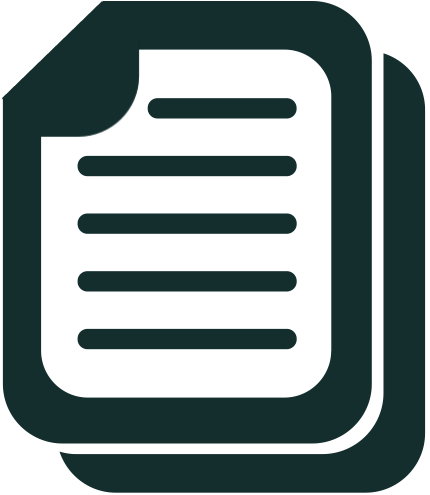
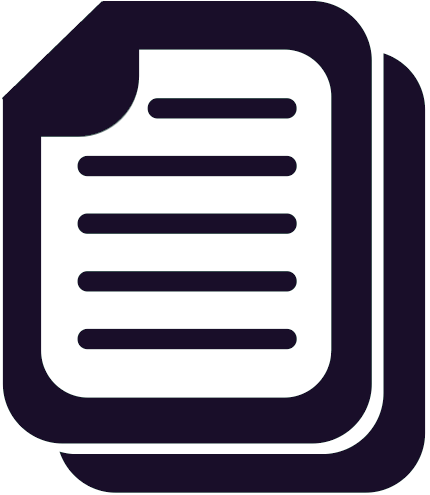
Layout looking great, almost done.

diff --git a/public/styles.css b/public/styles.css
@@ -18,25 +18,45 @@ body {
 
 .header {
 	display: flex;
-	background-color: rgb(30, 30, 30);
+	background-color: #1b0f2b;
 	color: white;
 	justify-content: space-between;
 	align-items: center;
-	padding: 13px 20px 10px;
+	padding: 6px 20px 4px;
 	margin-bottom: 30px;
 }
 
-.logo {
-	color: white;
+.logo img {
+	color: rgb(220, 220, 220);
 	font-family: sans-serif;
 	font-weight: lighter;
 	margin: 0;
+	width: 120px;
 }
 
 .login {
-	color: white;
+	display: flex;
+	align-items: center;
+}
+
+.login a {
+	color: rgb(220, 220, 220);
 	font-family: sans-serif;
 	font-weight: lighter;
+	text-decoration: none;
+}
+
+.login a:hover {
+	color: #cc0000;
+	font-family: sans-serif;
+	font-weight: lighter;
+	text-decoration: none;
+}
+
+.login span {
+	font-size: 1.7em;
+	font-weight: 100;
+	color: rgb(220, 220, 220);
 }
 
 .bodyContent {
@@ -70,11 +90,13 @@ body {
 	margin-bottom: 10px;
 }
 
-.featuredText {
+.featuredText a {
 	font-size: 2em;
 	font-family: sans-serif;
 	font-weight: bold;
 	padding-left: 40px;
+	color: #cc0000;
+	text-decoration: none;
 }
 
 .article {
@@ -92,7 +114,7 @@ body {
 .articleText a {
 	padding-left: 40px;
 	text-decoration: none;
-	color: #0d86c6;
+	color: #210049;
 }
 
 .articleImg img {
@@ -134,15 +156,16 @@ body {
 
 .searchBox {
 	padding: 0;
-	margin: 0;
+	margin-bottom: 13px;
 }
 
 #searchBar {
-	padding: 6px 9px 12px 40px;
+	padding: 9px 9px 12px 40px;
 	border-style: solid;
 	border-width: 1px;
 	border-color: rgb(30, 30, 30);
 	font-size: 1.5em;
+	color: #cc0000;
 	background: url("images/magnifyGray.png") no-repeat;
 	background-position: 4% 50%;
 	background-size: 20px 20px;
@@ -152,13 +175,6 @@ body {
 .searchBox input[type=button] {
 	background-color: rgb(50, 50, 50);
 	border-style: none;
-}
-
-.searchBox span {
-	font-family: sans-serif;
-	line-height: 3em;
-	font-size: 1.2em;
-	color: #424242;
 }
 
 #searchButton {
@@ -171,25 +187,67 @@ body {
 	border-style: none;
 	margin-left: 5px;
 	padding: 7px;
+	border-radius: 2px;
 }
 
 #newsearch {
 	display: flex;
 	align-items: center;
+	margin-bottom: 10px;
 }
 
 #sortBy {
    -webkit-border-radius: 5px;
+   -webkit-appearance: none;
    -moz-border-radius: 5px;
    border-radius: 5px;
    font-size: 14px;
    line-height: 18px;
-   background-color: #0d86c6;
-   color: white;
-   font-weight: lighter;
+   background-color: rgb(220, 220, 220) !important;
+   background: url(/images/menuArrow.png) no-repeat right;
+   color: #424242;
    letter-spacing: 0.5px;
+   width: 126px;
    height: 29px;
-   margin: 0px 10px;
+   margin: 0px 4px;
+   padding-left: 5px;
+}
+
+.selected:focus {
+	outline: none !important;
+	border-style: solid;
+	border-width: 2px;
+	border-color: #cc0000;
+	box-shadow: 0 0 5px #cc0000;
+}
+
+input[type=button].selected:focus {
+	border-style: solid;
+	border-width: 2px;
+	border-color: white;
+	box-shadow: 0 0 5px 3px white;
+}
+
+.underSearch {
+	display: flex;
+	justify-content: space-between;
+	align-items: center;
+}
+
+.underSearch span {
+	font-family: sans-serif;
+	font-size: 1.2em;
+	color: #424242;
+}
+
+#newPostButton {
+	font-family: sans-serif;
+	font-size: 1.3em;
+	font-weight: lighter;
+	color: white;
+	background-color: #cc0000;
+	padding: 10px 15px;
+	border-style: none;
 }
 
 
